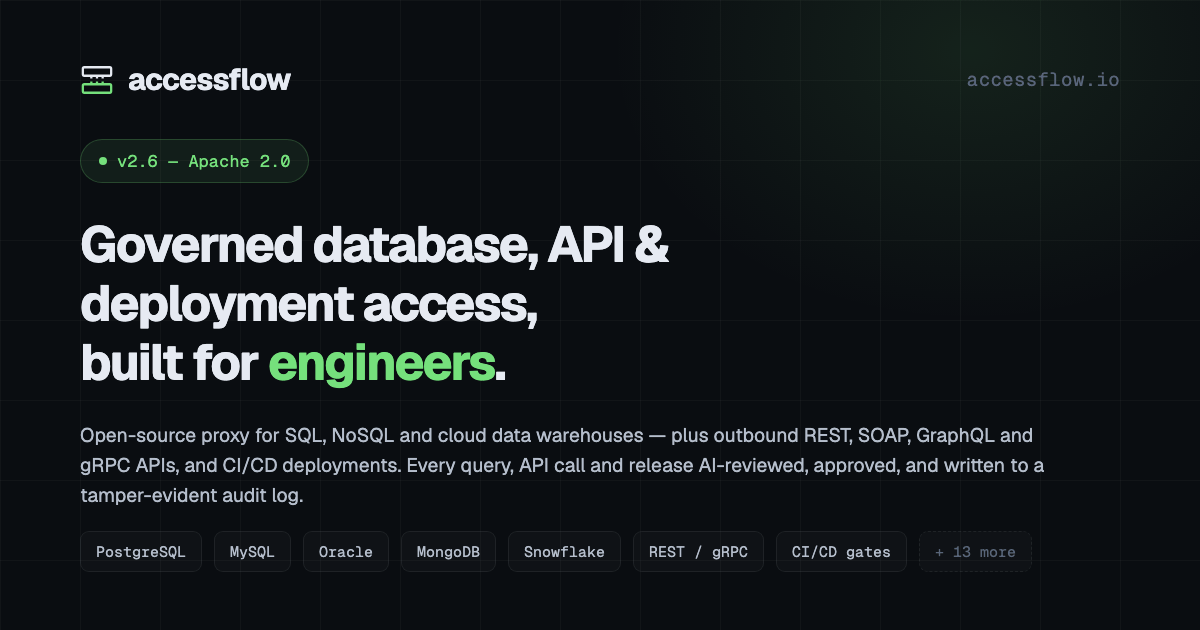
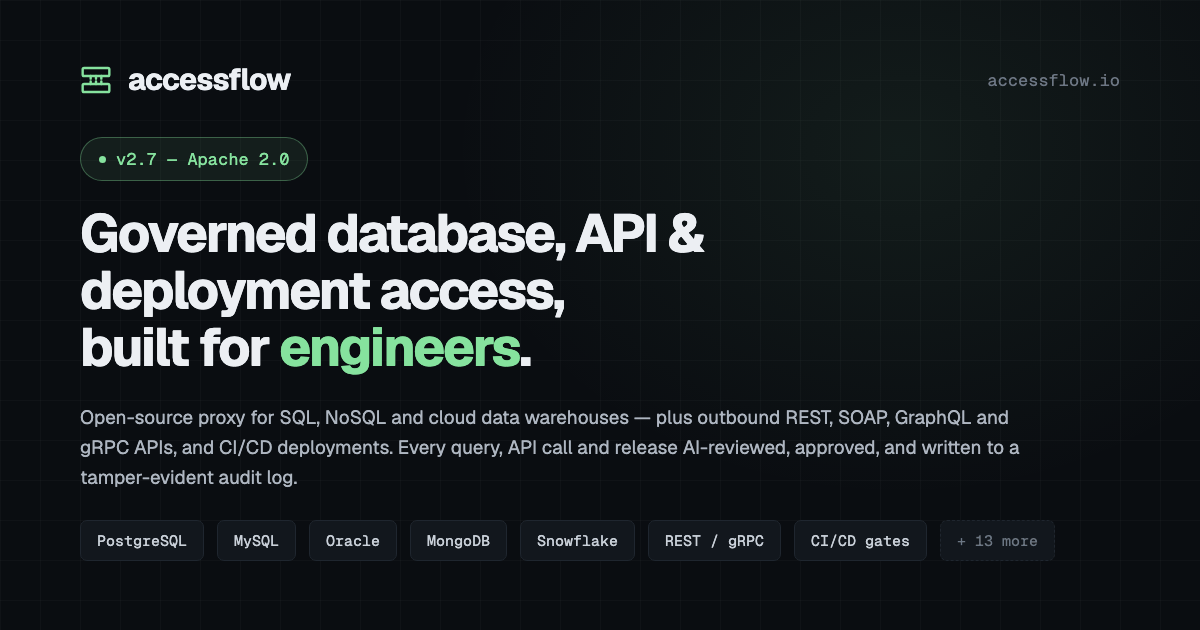
chore(website): re-cut og-image at v2.7

diff --git a/.agents/marketing-log.md b/.agents/marketing-log.md
@@ -11,7 +11,7 @@ Newest entries first inside each section. Dates are ISO (YYYY-MM-DD).
 | X (company) | https://x.com/AccessFlowIO | Live since 2026-09; new-account reach limit ("graduated access") until X sees organic engagement |
 | GitHub | https://github.com/bablsoft/accessflow (+ Discussions, Issues) | 6 stars / 3 forks on 2026-09-21 |
 | Website | https://accessflow.io — `website/` in this repo, static, no build | SEO meta + JSON-LD on every page; sourced comparison pages under `/compare/` |
-| Social share image | `website/og-image.png` | Re-cut at v2.6 on 2026-09-22. Re-cut whenever the version pill or engine count moves (`website/README.md` → "Regenerating og-image.png") |
+| Social share image | `website/og-image.png` | Re-cut at v2.7 on 2026-10-01. Re-cut whenever the version pill or engine count moves (`website/README.md` → "Regenerating og-image.png") |
 | Product Hunt | account: new/barely used (warm up daily) | **Launch postponed 2026-09-22, no new date.** Plan is date-independent (T-0 relative) — see [`launch-producthunt.md`](launch-producthunt.md) |
 | Founder personal account | TBD | Not yet used for AccessFlow content |
 | LinkedIn / Bluesky / Mastodon / Reddit / HN | — | Not started |
@@ -20,6 +20,7 @@ Newest entries first inside each section. Dates are ISO (YYYY-MM-DD).
 
 - **2026-09-22 — v2.6.0 release thread posted.** Eight tweets, light-theme screenshots on 2, 3 and 6; the explainer and API/deploy-trace tweets are text-only because both features are API-only (no UI to show). https://x.com/AccessFlowIO/status/2102367885322567833
 - **2026-09-22 — Demo assets re-cut in light theme** and two feature screenshots added (SQL review ruleset editor, privileged-access report) via `capture-shots.mts`. All in `~/Downloads/accessflow-ph-launch/`.
+- **2026-10-01 — `website/og-image.png` re-cut at v2.7** (was v2.6). Same layout and copy, version pill only; rebuilt from a throwaway `_og-template.html` per `website/README.md`, template deleted.
 - **2026-09-22 — `website/og-image.png` re-cut at v2.6** (was v2.4). Rebuilt from a throwaway `_og-template.html` per `website/README.md`; 1200×630, 62 KB, template deleted.
 - **2026-09-22 — Product Hunt launch postponed**, no new date. Plan rewritten date-independent.
 
